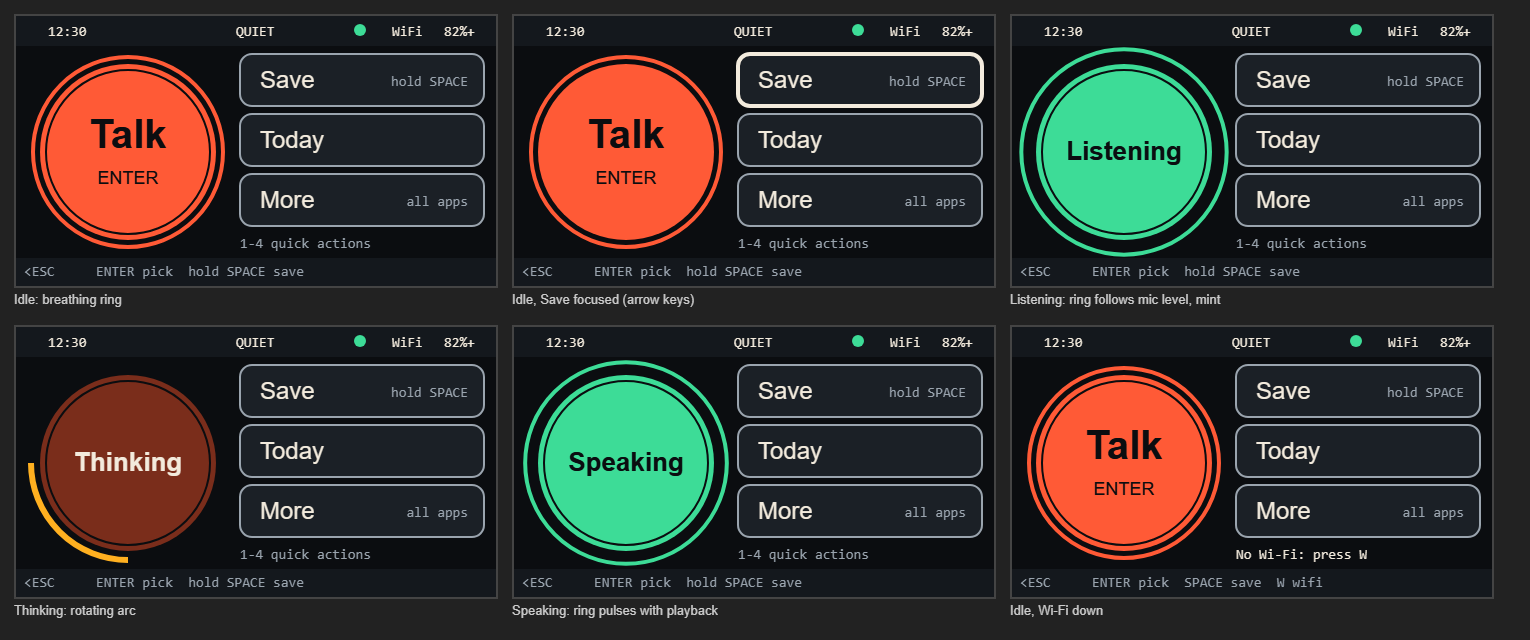
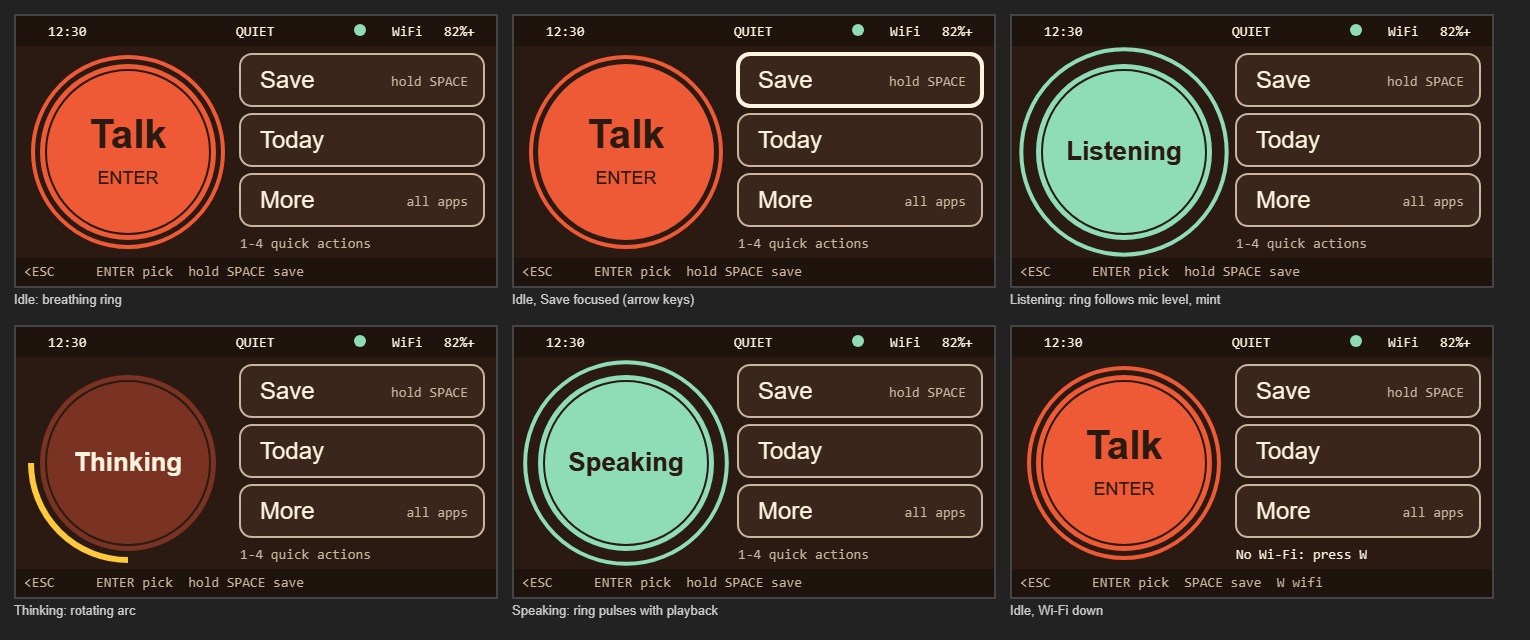
Device theme: concept A (Toy-shop warm) palette
Claude-Session: https://claude.ai/code/session_01QJmfgq9vpa2f5Wanf75mmS

diff --git a/firmware/nod/preview/talk.html b/firmware/nod/preview/talk.html
@@ -3,7 +3,7 @@
 <div class="g" id="g"></div>
 <script>
 // MOCKUP drawn from the same numbers the unit tests pin (firmware/nod/tests/test_nod.cpp). Not a device screenshot.
-const C={bg:'#0B0D10',text:'#F3EBDD',talk:'#FF5A36',live:'#3DDC97',think:'#FFB020',btn:'#1B2026',dim:'#9AA4AE',panel:'#14181D'};
+const C={bg:'#2A1A12',text:'#FFF4E0',talk:'#EE5A36',live:'#8FDCB8',think:'#FFC93C',btn:'#3A261B',dim:'#C9B59E',panel:'#1F130D'};
 const S=2,L={cx:56,cy:68,r:44,btn:[[112,19],[112,49],[112,79]],bw:122,bh:26,sy:109};
 function tri(ms,p,a){const q=ms%p,h=p/2;return (q<h?q:p-q)*a/h}
 function frame(state,t,focus,line,wifi){
@@ -14,7 +14,7 @@ function frame(state,t,focus,line,wifi){
   x.fillStyle=C.live;x.beginPath();x.arc(172,7,3,0,7);x.fill();
   x.fillStyle=C.dim;x.fillText('<ESC',4,130);x.fillText(wifi?'ENTER pick  SPACE save  W wifi':'ENTER pick  hold SPACE save',40,130);
   const live=state=='listening'||state=='speaking';
-  const fill=state=='thinking'?'#7a2d1b':live?C.live:C.talk;
+  const fill=state=='thinking'?'#7a3322':live?C.live:C.talk;
   let lvl=state=='listening'?0.55+0.35*Math.sin(t*5):state=='speaking'?(350+tri(t*1000,480,400))/1000:0;
   x.fillStyle=fill;x.beginPath();x.arc(L.cx,L.cy,L.r,0,7);x.fill();
   x.lineWidth=2;

diff --git a/firmware/nod/include/nod_theme.h b/firmware/nod/include/nod_theme.h
@@ -1,6 +1,6 @@
-// Nod brand palette in ONE place. Change a value here and the device Home, the
-// preview and the tests all follow. These are placeholders until the final
-// brand palette lands; nothing else in the firmware should hard-code them.
+// Nod device palette in ONE place. Change a value here and the device Home, the
+// preview and the tests all follow. Values are
+// concept A (Toy-shop warm, design/tokens-a.css on site/two-concepts); nothing else in the firmware should hard-code them.
 #pragma once
 #include <stdint.h>
 
@@ -18,13 +18,13 @@ constexpr uint32_t mix(uint32_t a, uint32_t b, uint32_t t) {
            (((a & 255) * (256 - t) + (b & 255) * t) >> 8);
 }
 
-constexpr uint32_t BG_RGB      = 0x0B0D10;  // near-black
-constexpr uint32_t TEXT_RGB    = 0xF3EBDD;  // warm off-white
-constexpr uint32_t TALK_RGB    = 0xFF5A36;  // tomato-orange: the Talk circle
-constexpr uint32_t LIVE_RGB    = 0x3DDC97;  // mint: mic is live / nod is speaking
-constexpr uint32_t THINK_RGB   = 0xFFB020;  // amber arc while thinking
-constexpr uint32_t BUTTON_RGB  = 0x1B2026;  // right-column button fill
-constexpr uint32_t DIM_RGB     = 0x9AA4AE;
+constexpr uint32_t BG_RGB      = 0x2A1A12;  // concept A "ink": warm near-black
+constexpr uint32_t TEXT_RGB    = 0xFFF4E0;  // concept A "paper": warm cream
+constexpr uint32_t TALK_RGB    = 0xEE5A36;  // concept A tomato: the Talk circle
+constexpr uint32_t LIVE_RGB    = 0x8FDCB8;  // concept A mint: mic is live / nod is speaking
+constexpr uint32_t THINK_RGB   = 0xFFC93C;  // concept A sun-yellow: thinking arc, highlights
+constexpr uint32_t BUTTON_RGB  = 0x3A261B;  // right-column button fill (ink lifted toward paper)
+constexpr uint32_t DIM_RGB     = 0xC9B59E;  // ink-soft lifted for small text
 
 constexpr uint16_t BG     = rgb565(BG_RGB);
 constexpr uint16_t TEXT   = rgb565(TEXT_RGB);

diff --git a/firmware/nod/tests/test_nod.cpp b/firmware/nod/tests/test_nod.cpp
@@ -124,6 +124,7 @@ int main() {
     // theme: brand constants convert correctly
     CHECK(theme::rgb565(0xFFFFFF) == 0xFFFF && theme::rgb565(0x000000) == 0);
     CHECK(theme::rgb565(0xFF5A36) == 0xFAC6 && theme::TALK != theme::LIVE);
+    CHECK(theme::TALK == 0xEAC6);  // concept A tomato #EE5A36
     CHECK(theme::mix(0x000000, 0xFFFFFF, 128) == 0x7F7F7F);
     printf("%d checks, %d failed\n", checks, fails);
     return fails ? 1 : 0;
